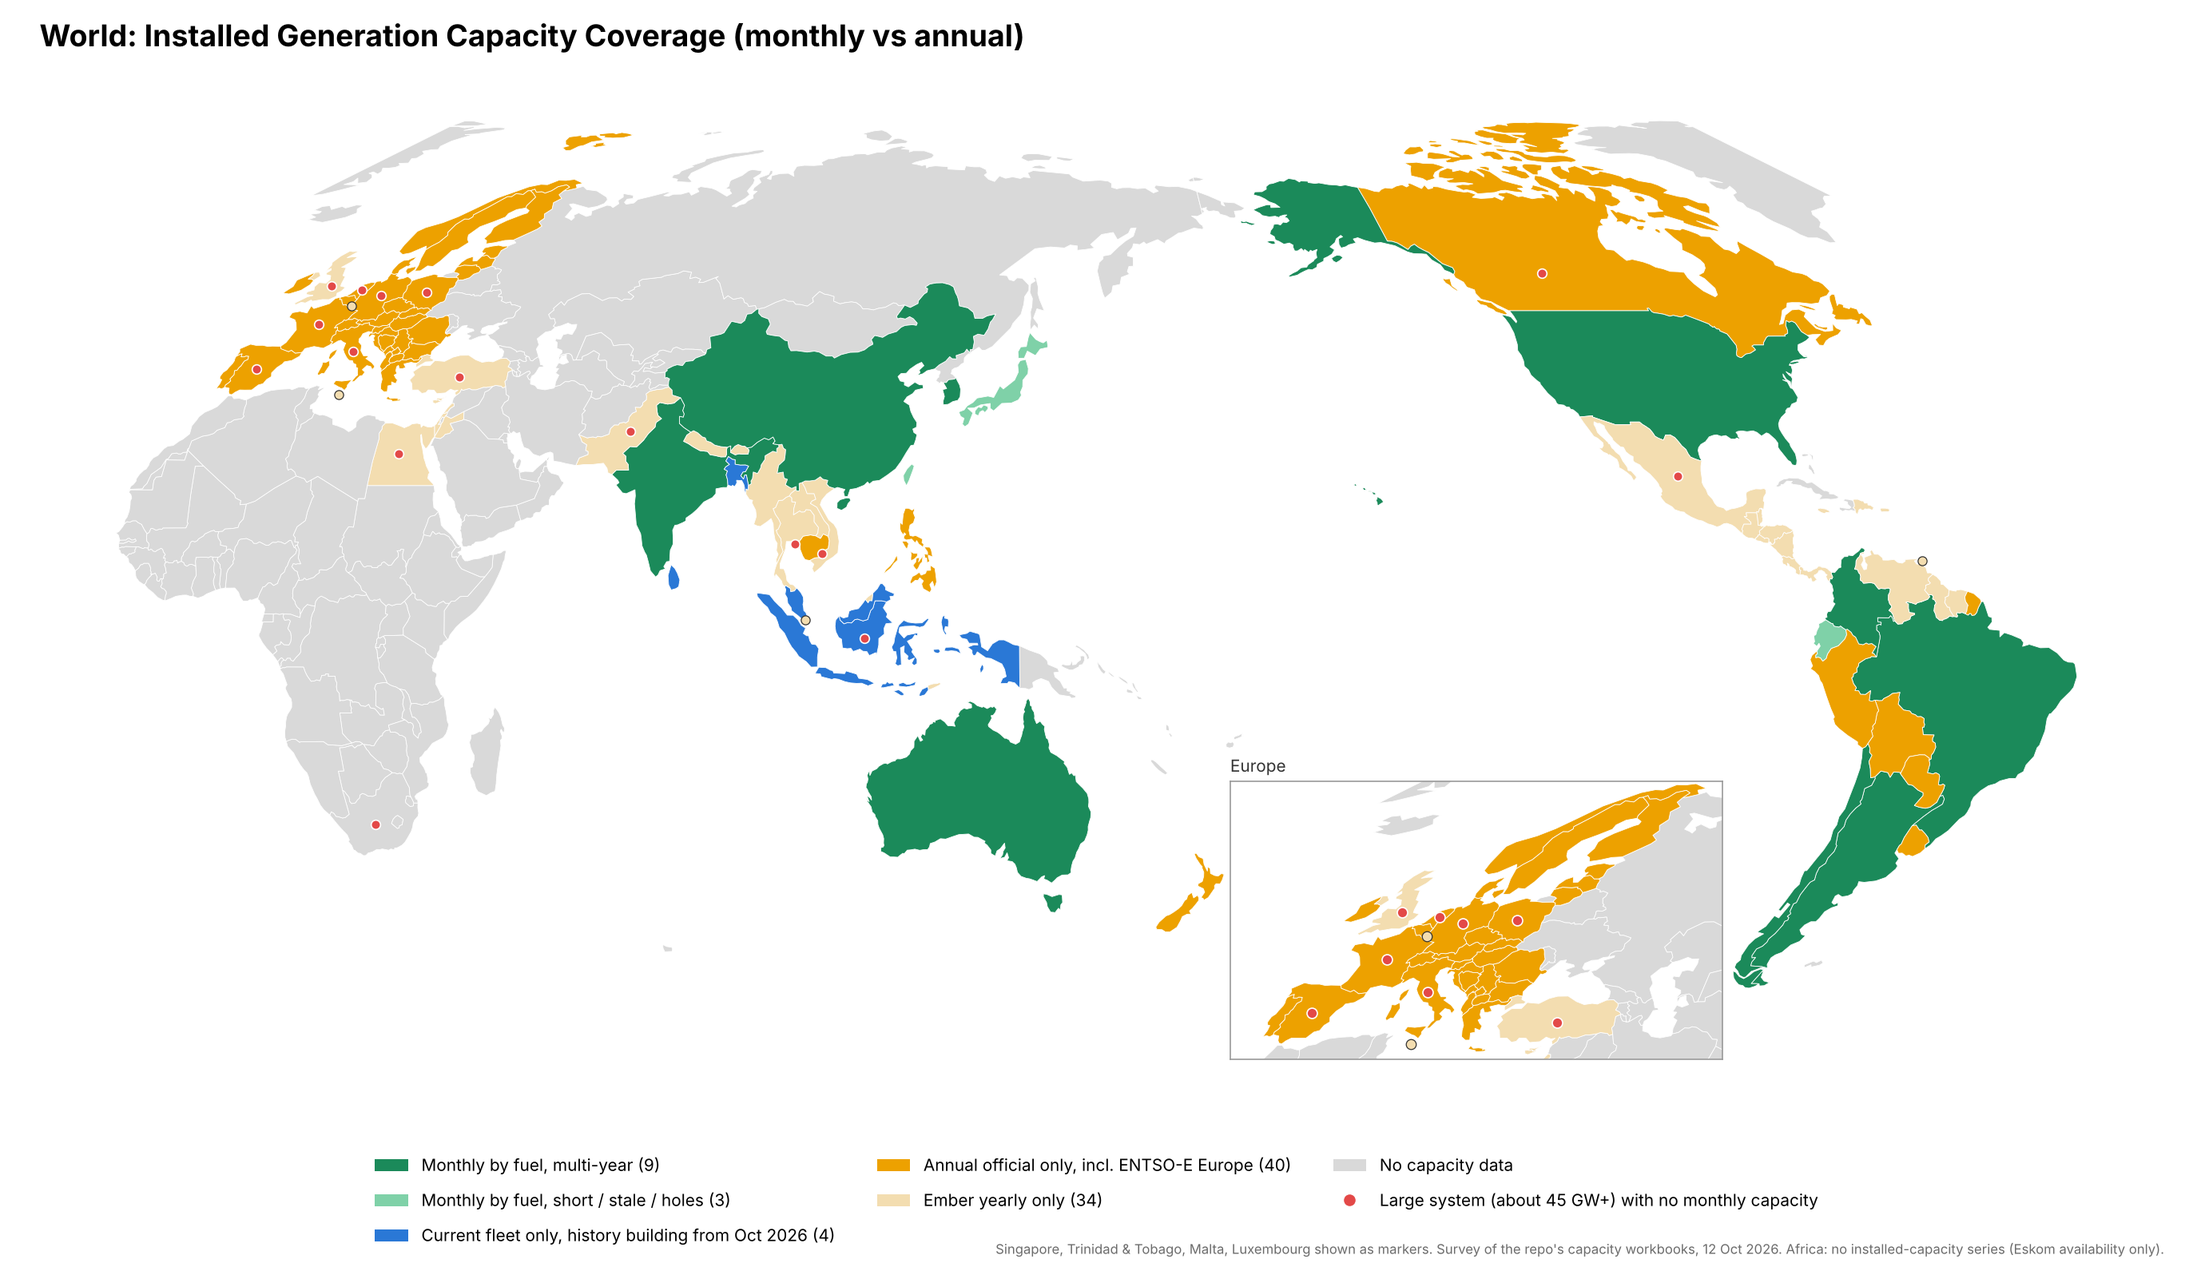
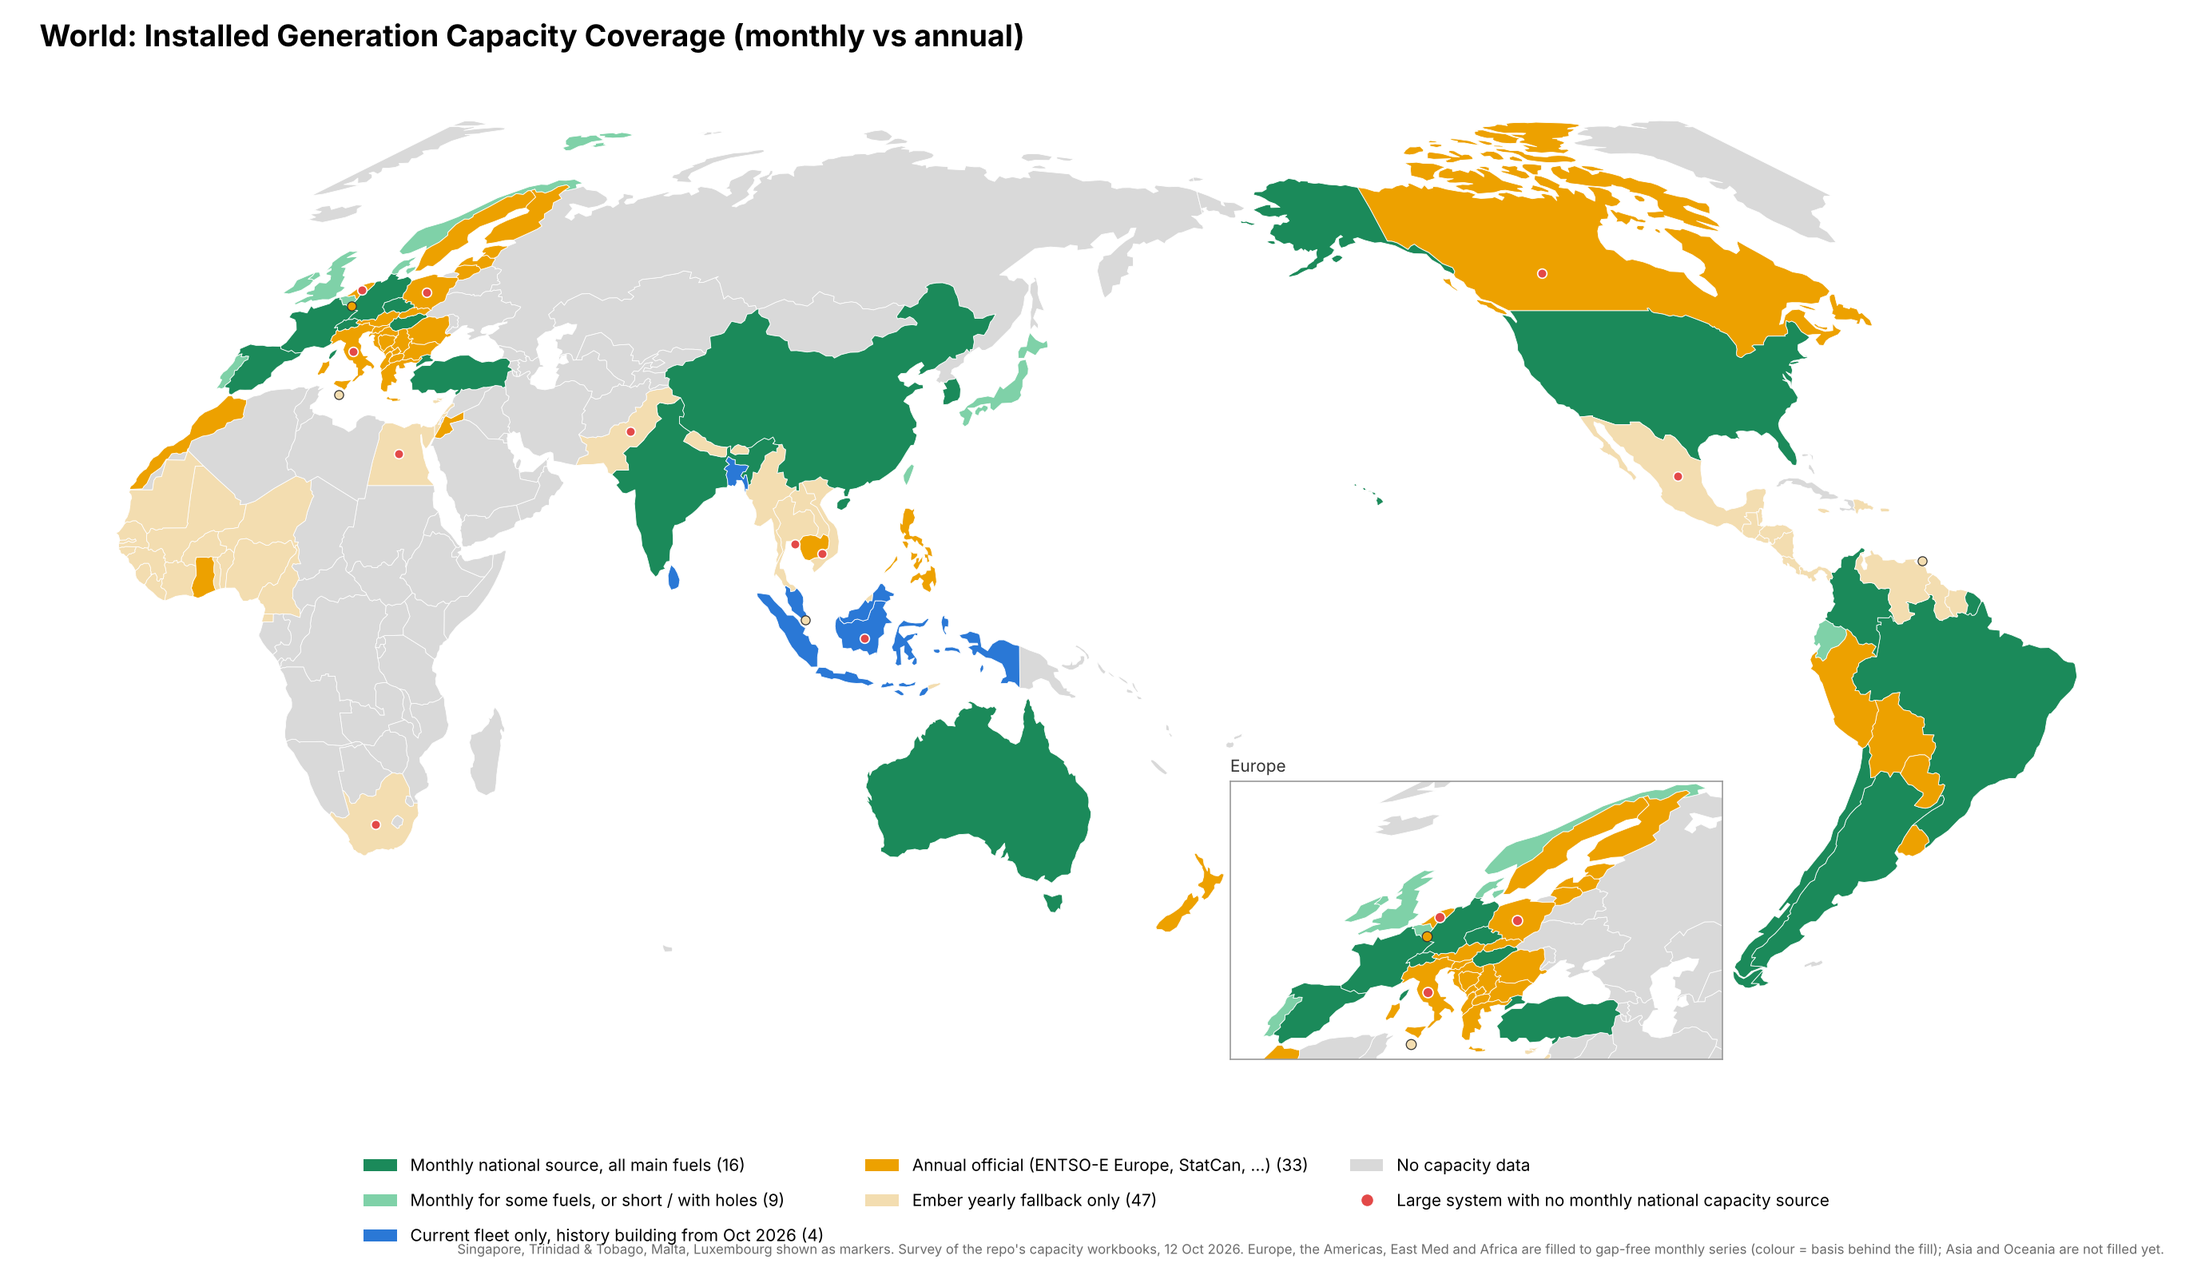
World capacity map: basis after today's monthly capacity pulls and the gap-free fill (Europe, Americas, East Med, Africa)
Claude-Session: https://claude.ai/code/session_01XS9pXkbpAjJDvyN5GQKL1R

diff --git a/WORLD_CAPACITY_MAP.py b/WORLD_CAPACITY_MAP.py
@@ -41,48 +41,58 @@ COLOURS = {"monthly": "#1B8A5A", "monthly_short": "#7FD1A8", "current": "#2A78D6
            "ember": "#F3DDB0"}
 GREY, EDGE, DOT_GAP = "#D9D9D9", "#FFFFFF", "#E34948"
 
-ENTSOE_ANNUAL = ["Germany", "France", "Spain", "Italy", "Netherlands", "Belgium", "Poland", "Austria", "Switzerland",
-                 "Czechia", "Slovakia", "Hungary", "Romania", "Bulgaria", "Greece", "Portugal", "Croatia", "Slovenia",
-                 "Denmark", "Sweden", "Norway", "Finland", "Ireland", "Estonia", "Latvia", "Lithuania", "Serbia",
-                 "Bosnia and Herz.", "Montenegro", "North Macedonia", "Albania", "Kosovo"]
+ENTSOE_ANNUAL = ["Italy", "Netherlands", "Austria", "Slovakia", "Romania", "Bulgaria", "Greece", "Croatia", "Slovenia",
+                 "Sweden", "Finland", "Estonia", "Latvia", "Lithuania", "Serbia", "Bosnia and Herz.", "Montenegro",
+                 "North Macedonia", "Albania", "Kosovo"]
 EMBER_ONLY = ["Venezuela", "Guyana", "Suriname", "Guatemala", "El Salvador", "Honduras", "Nicaragua", "Costa Rica",
               "Panama", "Belize", "Trinidad and Tobago", "Puerto Rico", "Jamaica", "Dominican Rep.", "Mexico",
               "Pakistan", "Thailand", "Vietnam", "Nepal", "Myanmar", "Laos", "Brunei", "Timor-Leste", "Bhutan",
-              "Singapore", "United Kingdom", "Turkey", "Luxembourg", "Malta", "Cyprus", "Israel", "Egypt", "Jordan",
-              "Lebanon"]
+              "Singapore", "Malta", "Cyprus", "Israel", "Egypt", "Lebanon",
+              # Africa master: Ember yearly (South Africa: Eskom nuclear and pumped storage only)
+              "Nigeria", "South Africa", "Cameroon", "Côte d'Ivoire", "Benin", "Togo", "Eq. Guinea", "Mauritania",
+              "Mali", "Burkina Faso", "Guinea", "Sierra Leone", "Liberia", "Gambia", "Guinea-Bissau", "Senegal",
+              "Niger"]
 
-# name (Natural Earth): (class, note)
+# name (Natural Earth): (class, note). Europe, the Americas, East Med and Africa are filled to a gap-free monthly series
+# (capacity_fill.py; *_capacity_monthly_complete.xlsx) - the class is the BASIS behind it. Asia is not filled yet.
 CAPACITY = {
     "United States of America": ("monthly", "EIA-860M, Jan 2021 -, by fuel and ISO region"),
     "India": ("monthly", "CEA/NPP + MNRE, Jan 2019 -"),
-    "Argentina": ("monthly", "CAMMESA, Jan 2021 -"),
-    "Brazil": ("monthly", "ANEEL SIGA + MMGD, Jan 2021 -"),
-    "Chile": ("monthly", "CNE, Jan 2021 -"),
-    "Colombia": ("monthly", "XM, Jan 2021 -"),
+    "Argentina": ("monthly", "CAMMESA"), "Brazil": ("monthly", "ANEEL SIGA + MMGD"), "Chile": ("monthly", "CNE"),
+    "Colombia": ("monthly", "XM"),
     "Australia": ("monthly", "AEMO registration list, Jan 2021 -"),
     "South Korea": ("monthly", "KPX EPSIS, Jan 2018 -"),
     "China": ("monthly", "NEA, Dec 2020 - (January never published; thermal not split)"),
+    "Germany": ("monthly", "MaStR register rebuild, Jan 2015 -"), "France": ("monthly", "ODRE register rebuild"),
+    "Spain": ("monthly", "REE REData"), "Hungary": ("monthly", "MAVIR"), "Czechia": ("monthly", "ERU"),
+    "Switzerland": ("monthly", "BFE/Pronovo register rebuild"), "Turkey": ("monthly", "EPDK sector reports, Feb 2017 -"),
     "Japan": ("monthly_short", "METI table 1-1, Apr 2024 - Mar 2026 only"),
-    "Taiwan": ("monthly_short", "E-STAT 3-03, monthly from Jan 2025 (annual 2007 -)"),
-    "Ecuador": ("monthly_short", "ARCONEL, monthly from Apr 2024 (May 2025 missing)"),
+    "Taiwan": ("monthly_short", "E-STAT 3-03, monthly from Jan 2025"),
+    "Ecuador": ("monthly_short", "ARCONEL, monthly from Apr 2024"),
+    "United Kingdom": ("monthly_short", "solar/wind/storage monthly; thermal DUKES annual"),
+    "Ireland": ("monthly_short", "EirGrid wind + register rebuild; thermal annual"),
+    "Belgium": ("monthly_short", "Elia wind and solar monthly; rest ENTSO-E annual"),
+    "Denmark": ("monthly_short", "Energinet wind and solar monthly; thermal ENTSO-E annual"),
+    "Norway": ("monthly_short", "NVE hydro and wind register rebuild"),
+    "Portugal": ("monthly_short", "DGEG renewables monthly; thermal annual"),
     "Bangladesh": ("current", "BPDB current fleet, history from Oct 2026"),
     "Malaysia": ("current", "GSO current fleet, Peninsular only"),
     "Sri Lanka": ("current", "PUCSL current fleet"),
     "Indonesia": ("current", "ESDM EBTKE, renewables only, one snapshot"),
+    "Poland": ("annual", "ENTSO-E annual; URE wind quarterly"),
     "Canada": ("annual", "StatCan year-end, 2019 - 2024"),
-    "Peru": ("annual", "COES annual statistics"),
-    "Bolivia": ("annual", "CNDC (monthly series repeats the year)"),
-    "Uruguay": ("annual", "MIEM/DNE"),
+    "Peru": ("annual", "COES annual statistics"), "Bolivia": ("annual", "CNDC"), "Uruguay": ("annual", "MIEM/DNE"),
     "Paraguay": ("annual", "Itaipu, EBY, Ember for ANDE plants"),
-    "Philippines": ("annual", "DOE Power Statistics, 2003 - 2025"),
-    "Cambodia": ("annual", "EAC annual reports"),
+    "Philippines": ("annual", "DOE Power Statistics, 2003 - 2025"), "Cambodia": ("annual", "EAC annual reports"),
     "New Zealand": ("annual", "MBIE plant-type table"),
+    "Luxembourg": ("annual", "ILR annual"), "Jordan": ("annual", "NEPCO annual reports"),
+    "Ghana": ("annual", "Energy Commission"), "Morocco": ("annual", "ONEE via HCP yearbooks"),
 }
 CAPACITY.update({c: ("annual", "ENTSO-E installed capacity, 1 January") for c in ENTSOE_ANNUAL})
-CAPACITY.update({c: ("ember", "Ember yearly (long-term page)") for c in EMBER_ONLY if c not in CAPACITY})
+CAPACITY.update({c: ("ember", "Ember yearly") for c in EMBER_ONLY if c not in CAPACITY})
 
-BIG_GAPS = ["Canada", "Mexico", "United Kingdom", "Germany", "France", "Spain", "Italy", "Poland", "Netherlands",
-            "Turkey", "Egypt", "South Africa", "Pakistan", "Vietnam", "Thailand", "Indonesia"]
+BIG_GAPS = ["Canada", "Mexico", "Italy", "Netherlands", "Poland", "Egypt", "South Africa", "Pakistan", "Vietnam",
+            "Thailand", "Indonesia"]
 SMALL = {"Singapore": (103.82, 1.35), "Trinidad and Tobago": (-61.3, 10.45), "Malta": (14.4, 35.9),
          "Luxembourg": (6.13, 49.8)}
 DOT_AT = dict(wcm.DOT_AT)
@@ -142,20 +152,21 @@ def render(out):
     ins.set_title("Europe", fontsize=10, loc="left", color="#333333")
 
     n = {k: sum(1 for v in CAPACITY.values() if v[0] == k) for k in COLOURS}
-    handles = [Patch(facecolor=COLOURS["monthly"], label=f"Monthly by fuel, multi-year ({n['monthly']})"),
-               Patch(facecolor=COLOURS["monthly_short"], label=f"Monthly by fuel, short / stale / holes "
+    handles = [Patch(facecolor=COLOURS["monthly"], label=f"Monthly national source, all main fuels ({n['monthly']})"),
+               Patch(facecolor=COLOURS["monthly_short"], label=f"Monthly for some fuels, or short / with holes "
                                                                 f"({n['monthly_short']})"),
                Patch(facecolor=COLOURS["current"], label=f"Current fleet only, history building from Oct 2026 "
                                                          f"({n['current']})"),
-               Patch(facecolor=COLOURS["annual"], label=f"Annual official only, incl. ENTSO-E Europe ({n['annual']})"),
-               Patch(facecolor=COLOURS["ember"], label=f"Ember yearly only ({n['ember']})"),
+               Patch(facecolor=COLOURS["annual"], label=f"Annual official (ENTSO-E Europe, StatCan, ...) ({n['annual']})"),
+               Patch(facecolor=COLOURS["ember"], label=f"Ember yearly fallback only ({n['ember']})"),
                Patch(facecolor=GREY, label="No capacity data"),
                Line2D([], [], marker="o", linestyle="none", markersize=8, color=DOT_GAP, markeredgecolor="white",
-                      label="Large system (about 45 GW+) with no monthly capacity")]
+                      label="Large system with no monthly national capacity source")]
     fig.legend(handles=handles, loc="lower center", ncol=3, frameon=False, fontsize=10, bbox_to_anchor=(0.5, 0.0),
                columnspacing=2.5, labelspacing=0.9)
     fig.text(0.995, 0.005, "Singapore, Trinidad & Tobago, Malta, Luxembourg shown as markers. Survey of the repo's "
-             "capacity workbooks, 12 Oct 2026. Africa: no installed-capacity series (Eskom availability only).",
+             "capacity workbooks, 12 Oct 2026. Europe, the Americas, East Med and Africa are filled to gap-free monthly series "
+             "(colour = basis behind the fill); Asia and Oceania are not filled yet.",
              ha="right", fontsize=8, color="#6B6B6B")
     os.makedirs(os.path.dirname(os.path.abspath(out)), exist_ok=True)
     fig.savefig(out, facecolor="white", bbox_inches="tight", pad_inches=0.15)

diff --git a/output/Python Scripts/WORLD_CAPACITY_MAP.py b/output/Python Scripts/WORLD_CAPACITY_MAP.py
@@ -41,48 +41,58 @@ COLOURS = {"monthly": "#1B8A5A", "monthly_short": "#7FD1A8", "current": "#2A78D6
            "ember": "#F3DDB0"}
 GREY, EDGE, DOT_GAP = "#D9D9D9", "#FFFFFF", "#E34948"
 
-ENTSOE_ANNUAL = ["Germany", "France", "Spain", "Italy", "Netherlands", "Belgium", "Poland", "Austria", "Switzerland",
-                 "Czechia", "Slovakia", "Hungary", "Romania", "Bulgaria", "Greece", "Portugal", "Croatia", "Slovenia",
-                 "Denmark", "Sweden", "Norway", "Finland", "Ireland", "Estonia", "Latvia", "Lithuania", "Serbia",
-                 "Bosnia and Herz.", "Montenegro", "North Macedonia", "Albania", "Kosovo"]
+ENTSOE_ANNUAL = ["Italy", "Netherlands", "Austria", "Slovakia", "Romania", "Bulgaria", "Greece", "Croatia", "Slovenia",
+                 "Sweden", "Finland", "Estonia", "Latvia", "Lithuania", "Serbia", "Bosnia and Herz.", "Montenegro",
+                 "North Macedonia", "Albania", "Kosovo"]
 EMBER_ONLY = ["Venezuela", "Guyana", "Suriname", "Guatemala", "El Salvador", "Honduras", "Nicaragua", "Costa Rica",
               "Panama", "Belize", "Trinidad and Tobago", "Puerto Rico", "Jamaica", "Dominican Rep.", "Mexico",
               "Pakistan", "Thailand", "Vietnam", "Nepal", "Myanmar", "Laos", "Brunei", "Timor-Leste", "Bhutan",
-              "Singapore", "United Kingdom", "Turkey", "Luxembourg", "Malta", "Cyprus", "Israel", "Egypt", "Jordan",
-              "Lebanon"]
+              "Singapore", "Malta", "Cyprus", "Israel", "Egypt", "Lebanon",
+              # Africa master: Ember yearly (South Africa: Eskom nuclear and pumped storage only)
+              "Nigeria", "South Africa", "Cameroon", "Côte d'Ivoire", "Benin", "Togo", "Eq. Guinea", "Mauritania",
+              "Mali", "Burkina Faso", "Guinea", "Sierra Leone", "Liberia", "Gambia", "Guinea-Bissau", "Senegal",
+              "Niger"]
 
-# name (Natural Earth): (class, note)
+# name (Natural Earth): (class, note). Europe, the Americas, East Med and Africa are filled to a gap-free monthly series
+# (capacity_fill.py; *_capacity_monthly_complete.xlsx) - the class is the BASIS behind it. Asia is not filled yet.
 CAPACITY = {
     "United States of America": ("monthly", "EIA-860M, Jan 2021 -, by fuel and ISO region"),
     "India": ("monthly", "CEA/NPP + MNRE, Jan 2019 -"),
-    "Argentina": ("monthly", "CAMMESA, Jan 2021 -"),
-    "Brazil": ("monthly", "ANEEL SIGA + MMGD, Jan 2021 -"),
-    "Chile": ("monthly", "CNE, Jan 2021 -"),
-    "Colombia": ("monthly", "XM, Jan 2021 -"),
+    "Argentina": ("monthly", "CAMMESA"), "Brazil": ("monthly", "ANEEL SIGA + MMGD"), "Chile": ("monthly", "CNE"),
+    "Colombia": ("monthly", "XM"),
     "Australia": ("monthly", "AEMO registration list, Jan 2021 -"),
     "South Korea": ("monthly", "KPX EPSIS, Jan 2018 -"),
     "China": ("monthly", "NEA, Dec 2020 - (January never published; thermal not split)"),
+    "Germany": ("monthly", "MaStR register rebuild, Jan 2015 -"), "France": ("monthly", "ODRE register rebuild"),
+    "Spain": ("monthly", "REE REData"), "Hungary": ("monthly", "MAVIR"), "Czechia": ("monthly", "ERU"),
+    "Switzerland": ("monthly", "BFE/Pronovo register rebuild"), "Turkey": ("monthly", "EPDK sector reports, Feb 2017 -"),
     "Japan": ("monthly_short", "METI table 1-1, Apr 2024 - Mar 2026 only"),
-    "Taiwan": ("monthly_short", "E-STAT 3-03, monthly from Jan 2025 (annual 2007 -)"),
-    "Ecuador": ("monthly_short", "ARCONEL, monthly from Apr 2024 (May 2025 missing)"),
+    "Taiwan": ("monthly_short", "E-STAT 3-03, monthly from Jan 2025"),
+    "Ecuador": ("monthly_short", "ARCONEL, monthly from Apr 2024"),
+    "United Kingdom": ("monthly_short", "solar/wind/storage monthly; thermal DUKES annual"),
+    "Ireland": ("monthly_short", "EirGrid wind + register rebuild; thermal annual"),
+    "Belgium": ("monthly_short", "Elia wind and solar monthly; rest ENTSO-E annual"),
+    "Denmark": ("monthly_short", "Energinet wind and solar monthly; thermal ENTSO-E annual"),
+    "Norway": ("monthly_short", "NVE hydro and wind register rebuild"),
+    "Portugal": ("monthly_short", "DGEG renewables monthly; thermal annual"),
     "Bangladesh": ("current", "BPDB current fleet, history from Oct 2026"),
     "Malaysia": ("current", "GSO current fleet, Peninsular only"),
     "Sri Lanka": ("current", "PUCSL current fleet"),
     "Indonesia": ("current", "ESDM EBTKE, renewables only, one snapshot"),
+    "Poland": ("annual", "ENTSO-E annual; URE wind quarterly"),
     "Canada": ("annual", "StatCan year-end, 2019 - 2024"),
-    "Peru": ("annual", "COES annual statistics"),
-    "Bolivia": ("annual", "CNDC (monthly series repeats the year)"),
-    "Uruguay": ("annual", "MIEM/DNE"),
+    "Peru": ("annual", "COES annual statistics"), "Bolivia": ("annual", "CNDC"), "Uruguay": ("annual", "MIEM/DNE"),
     "Paraguay": ("annual", "Itaipu, EBY, Ember for ANDE plants"),
-    "Philippines": ("annual", "DOE Power Statistics, 2003 - 2025"),
-    "Cambodia": ("annual", "EAC annual reports"),
+    "Philippines": ("annual", "DOE Power Statistics, 2003 - 2025"), "Cambodia": ("annual", "EAC annual reports"),
     "New Zealand": ("annual", "MBIE plant-type table"),
+    "Luxembourg": ("annual", "ILR annual"), "Jordan": ("annual", "NEPCO annual reports"),
+    "Ghana": ("annual", "Energy Commission"), "Morocco": ("annual", "ONEE via HCP yearbooks"),
 }
 CAPACITY.update({c: ("annual", "ENTSO-E installed capacity, 1 January") for c in ENTSOE_ANNUAL})
-CAPACITY.update({c: ("ember", "Ember yearly (long-term page)") for c in EMBER_ONLY if c not in CAPACITY})
+CAPACITY.update({c: ("ember", "Ember yearly") for c in EMBER_ONLY if c not in CAPACITY})
 
-BIG_GAPS = ["Canada", "Mexico", "United Kingdom", "Germany", "France", "Spain", "Italy", "Poland", "Netherlands",
-            "Turkey", "Egypt", "South Africa", "Pakistan", "Vietnam", "Thailand", "Indonesia"]
+BIG_GAPS = ["Canada", "Mexico", "Italy", "Netherlands", "Poland", "Egypt", "South Africa", "Pakistan", "Vietnam",
+            "Thailand", "Indonesia"]
 SMALL = {"Singapore": (103.82, 1.35), "Trinidad and Tobago": (-61.3, 10.45), "Malta": (14.4, 35.9),
          "Luxembourg": (6.13, 49.8)}
 DOT_AT = dict(wcm.DOT_AT)
@@ -142,20 +152,21 @@ def render(out):
     ins.set_title("Europe", fontsize=10, loc="left", color="#333333")
 
     n = {k: sum(1 for v in CAPACITY.values() if v[0] == k) for k in COLOURS}
-    handles = [Patch(facecolor=COLOURS["monthly"], label=f"Monthly by fuel, multi-year ({n['monthly']})"),
-               Patch(facecolor=COLOURS["monthly_short"], label=f"Monthly by fuel, short / stale / holes "
+    handles = [Patch(facecolor=COLOURS["monthly"], label=f"Monthly national source, all main fuels ({n['monthly']})"),
+               Patch(facecolor=COLOURS["monthly_short"], label=f"Monthly for some fuels, or short / with holes "
                                                                 f"({n['monthly_short']})"),
                Patch(facecolor=COLOURS["current"], label=f"Current fleet only, history building from Oct 2026 "
                                                          f"({n['current']})"),
-               Patch(facecolor=COLOURS["annual"], label=f"Annual official only, incl. ENTSO-E Europe ({n['annual']})"),
-               Patch(facecolor=COLOURS["ember"], label=f"Ember yearly only ({n['ember']})"),
+               Patch(facecolor=COLOURS["annual"], label=f"Annual official (ENTSO-E Europe, StatCan, ...) ({n['annual']})"),
+               Patch(facecolor=COLOURS["ember"], label=f"Ember yearly fallback only ({n['ember']})"),
                Patch(facecolor=GREY, label="No capacity data"),
                Line2D([], [], marker="o", linestyle="none", markersize=8, color=DOT_GAP, markeredgecolor="white",
-                      label="Large system (about 45 GW+) with no monthly capacity")]
+                      label="Large system with no monthly national capacity source")]
     fig.legend(handles=handles, loc="lower center", ncol=3, frameon=False, fontsize=10, bbox_to_anchor=(0.5, 0.0),
                columnspacing=2.5, labelspacing=0.9)
     fig.text(0.995, 0.005, "Singapore, Trinidad & Tobago, Malta, Luxembourg shown as markers. Survey of the repo's "
-             "capacity workbooks, 12 Oct 2026. Africa: no installed-capacity series (Eskom availability only).",
+             "capacity workbooks, 12 Oct 2026. Europe, the Americas, East Med and Africa are filled to gap-free monthly series "
+             "(colour = basis behind the fill); Asia and Oceania are not filled yet.",
              ha="right", fontsize=8, color="#6B6B6B")
     os.makedirs(os.path.dirname(os.path.abspath(out)), exist_ok=True)
     fig.savefig(out, facecolor="white", bbox_inches="tight", pad_inches=0.15)
